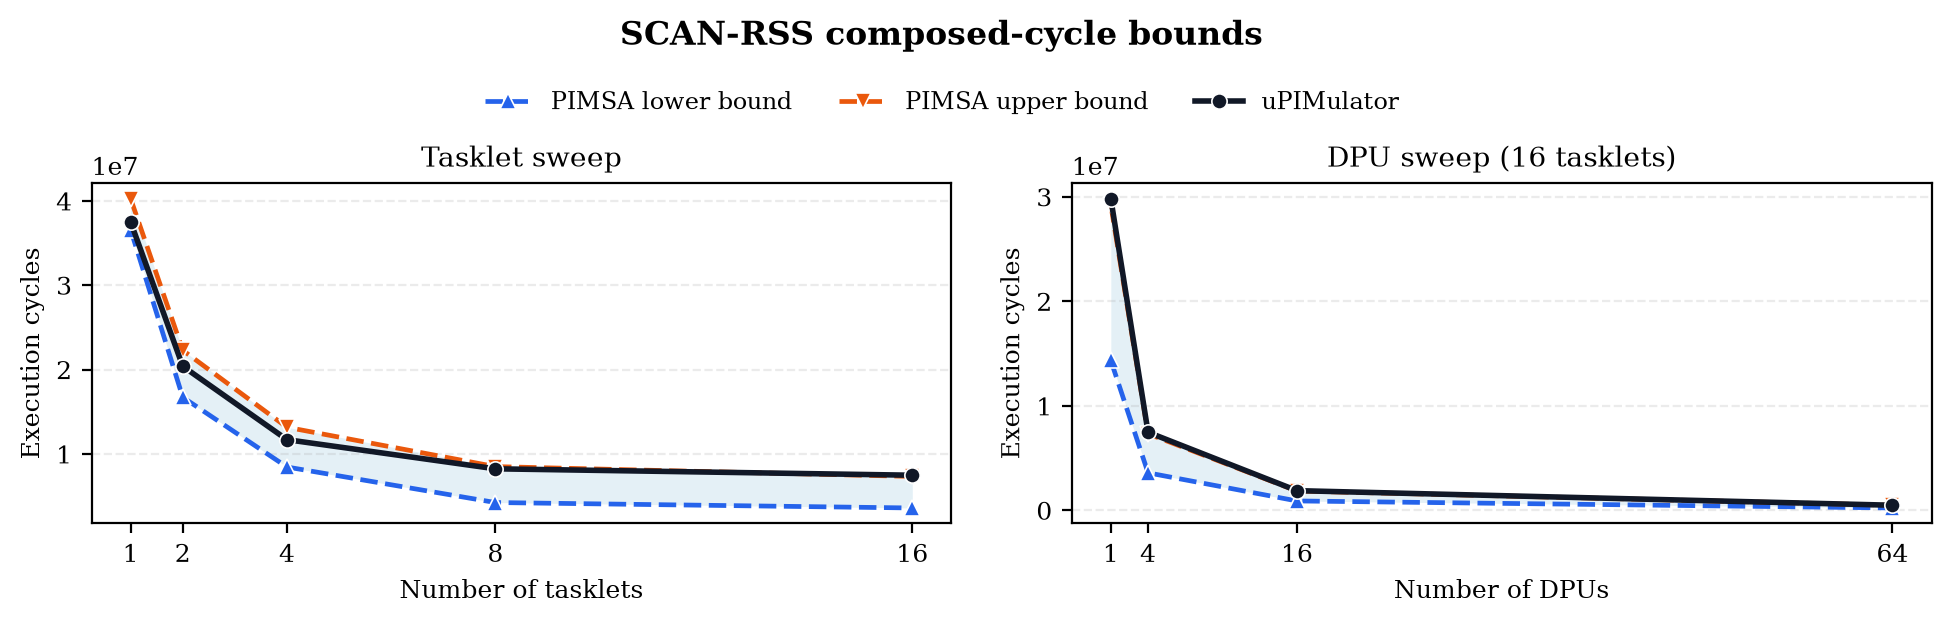
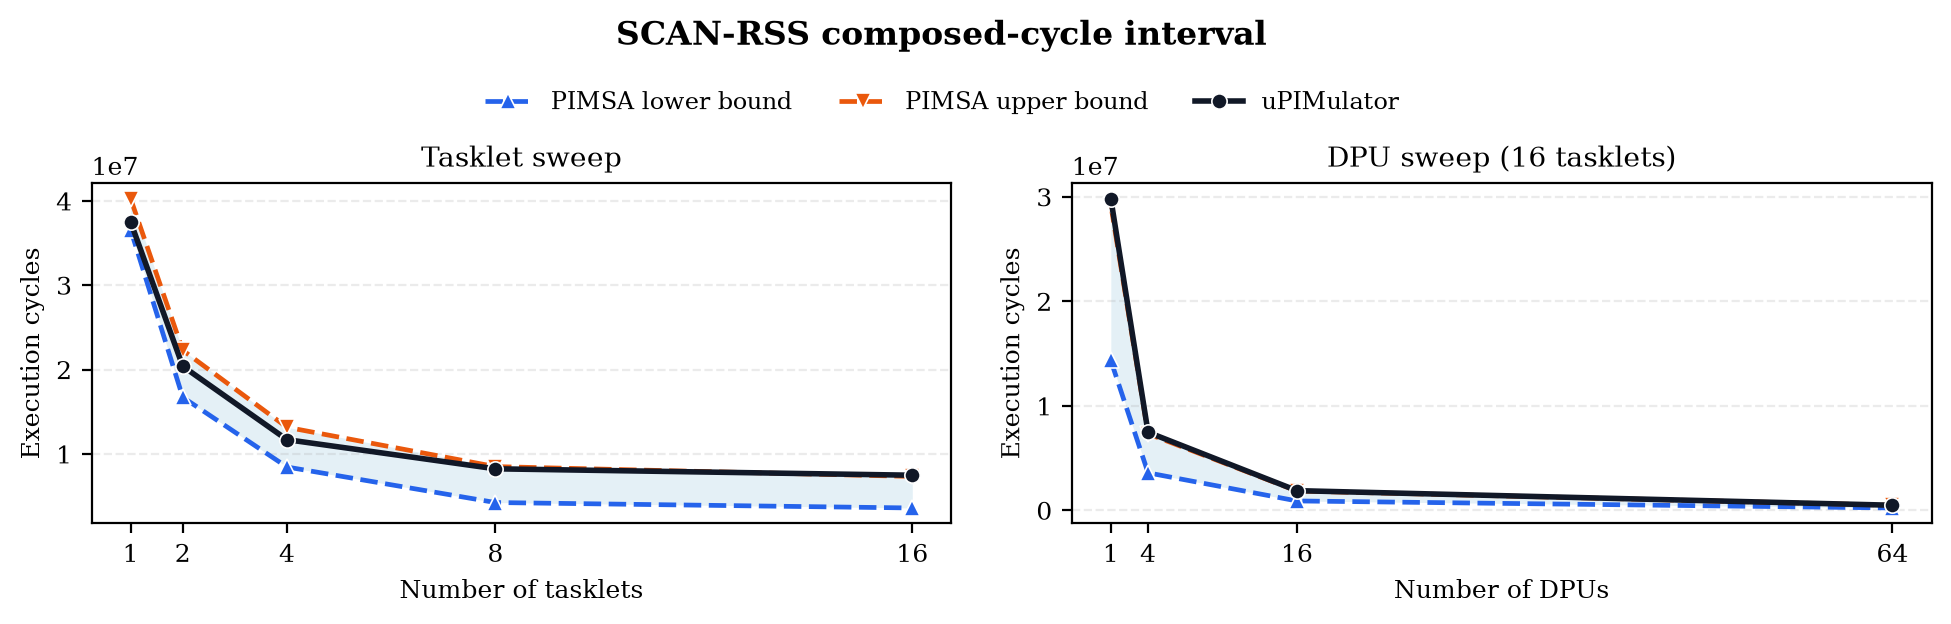
update figs

Changed region(s): [[0.3075, 0.0304, 0.6458, 0.0913]]

diff --git a/draw_figs/scripts/plot_all_benchmark_component_sensitivity.py b/draw_figs/scripts/plot_all_benchmark_component_sensitivity.py
@@ -381,7 +381,7 @@ def write_plot(
         columnspacing=1.8,
     )
     figure.suptitle(
-        f"PIMSA composed-cycle bounds across benchmarks  ·  "
+        f"PIMSA composed-cycle intervals across benchmarks  ·  "
         f"{total_covered}/{total_present} covered",
         fontsize=14,
         fontweight="bold",

diff --git a/draw_figs/scripts/estimate_cost.py b/draw_figs/scripts/estimate_cost.py
@@ -1168,7 +1168,7 @@ def write_sensitivity_plot(
         frameon=False,
     )
     figure.suptitle(
-        f"{benchmark_label} composed-cycle bounds",
+        f"{benchmark_label} composed-cycle interval",
         fontsize=12,
         fontweight="bold",
         y=0.99,

diff --git a/draw_figs/scripts/plot_va_cross_setting_validation.py b/draw_figs/scripts/plot_va_cross_setting_validation.py
@@ -268,7 +268,7 @@ def write_plot(
             [0],
             color=cycle_color,
             linewidth=2.0,
-            label="PIMSA composed-cycle envelope",
+            label="PIMSA composed-cycle interval",
         ),
         Line2D(
             [0],

diff --git a/draw_figs/scripts/plot_all_benchmark_validation.py b/draw_figs/scripts/plot_all_benchmark_validation.py
@@ -278,7 +278,7 @@ def write_plot(
         benchmarks,
         cmap,
         norm,
-        "(b) Composed-cycle envelope",
+        "(b) Composed-cycle interval",
         show_ylabels=False,
     )
 
